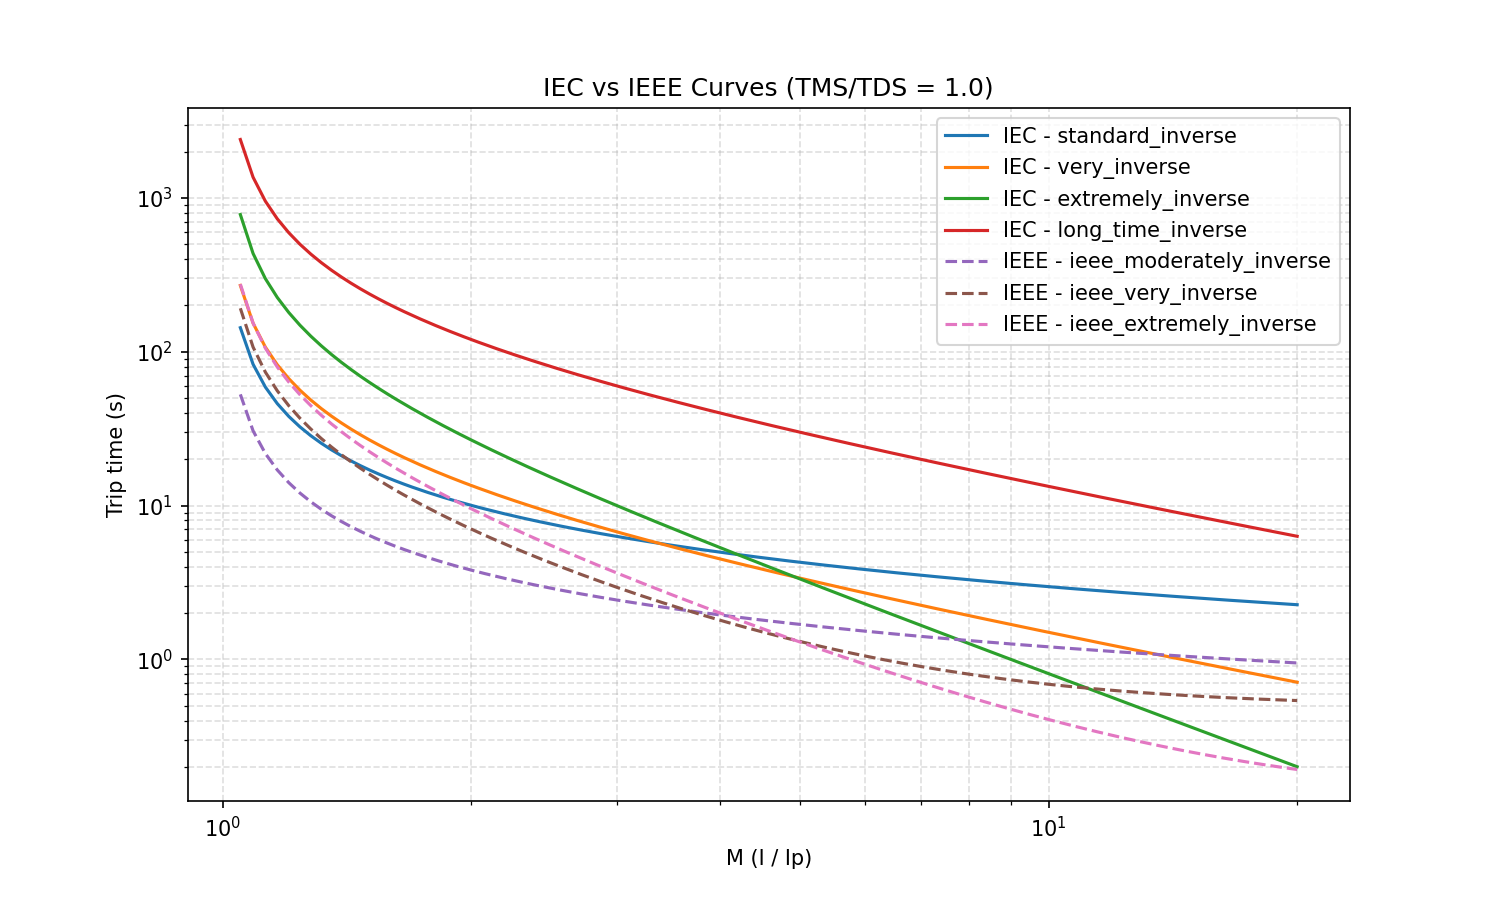
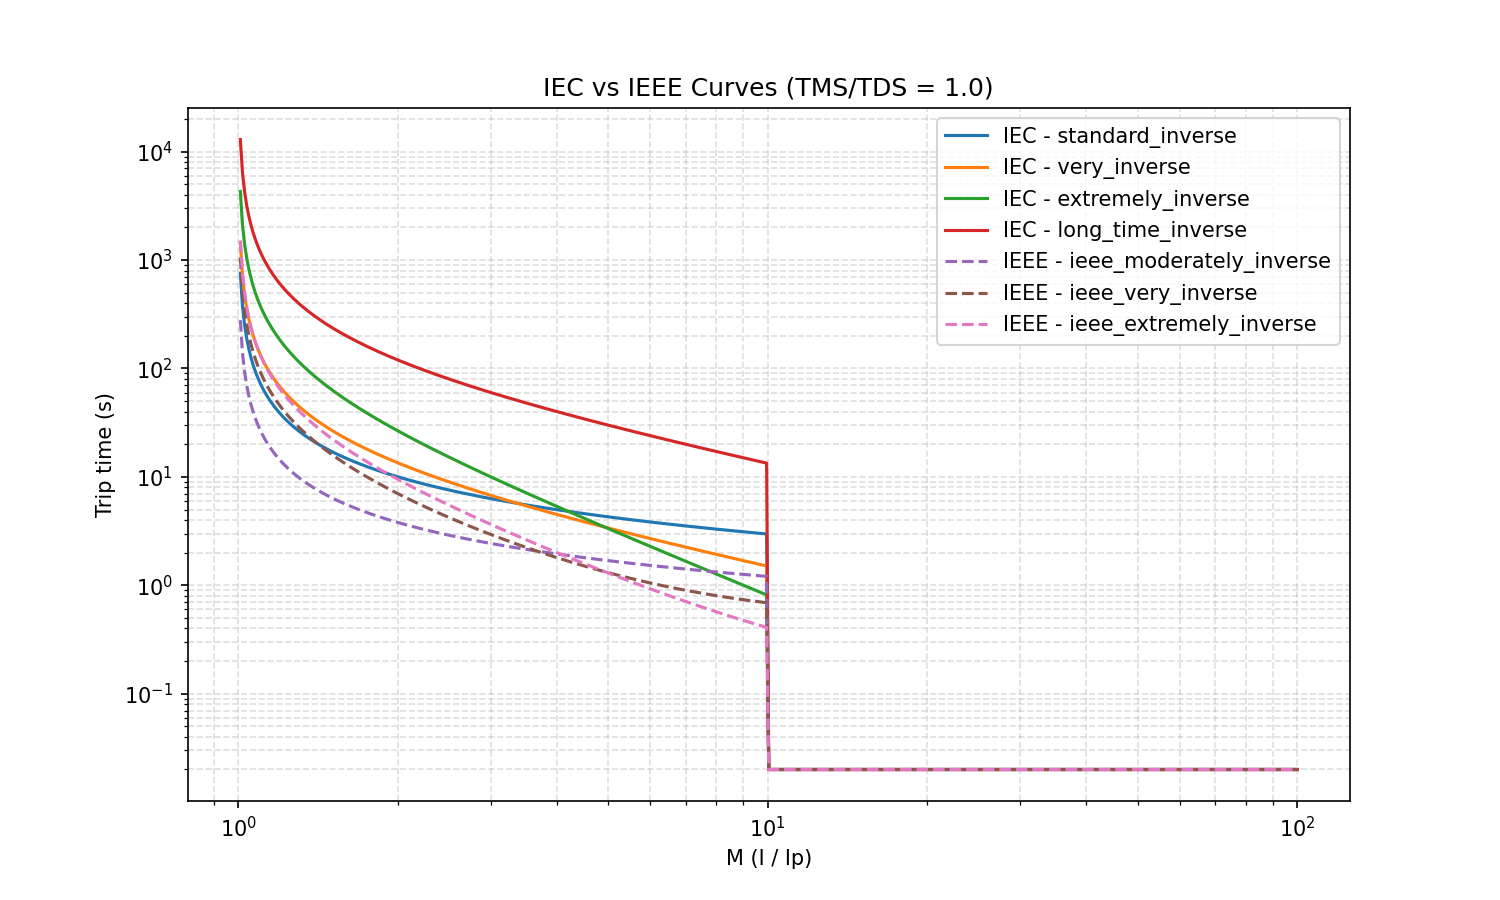
Update relay curves to accept inst_multiple as runtime parameter

diff --git a/c_firmware/test_main.c b/c_firmware/test_main.c
@@ -79,20 +79,51 @@ static void test_iec(void)
      * IEC EI:   80.0 / (2^2.0   - 1) = 80.0 / 3.0        ≈ 26.67 s
      * IEC LTI: 120.0 / (2^1.0   - 1) = 120.0 / 1.0       = 120.0 s
      */
-    check("IEC SI  M=2 TMS=1  (~10.03s)", trip_time_iec(2.0f, 1.0f, IEC_SI),   10.03f, 0.05f);
-    check("IEC VI  M=2 TMS=1  (13.50s)", trip_time_iec(2.0f, 1.0f, IEC_VI),   13.50f, 0.05f);
-    check("IEC EI  M=2 TMS=1  (26.67s)", trip_time_iec(2.0f, 1.0f, IEC_EI),   26.67f, 0.05f);
-    check("IEC LTI M=2 TMS=1  (120.0s)", trip_time_iec(2.0f, 1.0f, IEC_LTI), 120.00f, 0.10f);
+    check("IEC SI  M=2 TMS=1  (~10.03s)", trip_time_iec(2.0f, 1.0f, INST_MULTIPLE_DEFAULT, IEC_SI),   10.03f, 0.05f);
+    check("IEC VI  M=2 TMS=1  (13.50s)", trip_time_iec(2.0f, 1.0f, INST_MULTIPLE_DEFAULT, IEC_VI),   13.50f, 0.05f);
+    check("IEC EI  M=2 TMS=1  (26.67s)", trip_time_iec(2.0f, 1.0f, INST_MULTIPLE_DEFAULT, IEC_EI),   26.67f, 0.05f);
+    check("IEC LTI M=2 TMS=1  (120.0s)", trip_time_iec(2.0f, 1.0f, INST_MULTIPLE_DEFAULT, IEC_LTI), 120.00f, 0.10f);
 
     /* TMS scaling: halving TMS must halve the trip time */
-    float t_full = trip_time_iec(5.0f, 1.0f, IEC_SI);
-    float t_half = trip_time_iec(5.0f, 0.5f, IEC_SI);
+    float t_full = trip_time_iec(5.0f, 1.0f, INST_MULTIPLE_DEFAULT, IEC_SI);
+    float t_half = trip_time_iec(5.0f, 0.5f, INST_MULTIPLE_DEFAULT, IEC_SI);
     check("IEC SI  TMS halving scales time", t_half, t_full * 0.5f, 0.001f);
 
     /* M <= 1.0 must return error */
-    float err = trip_time_iec(0.8f, 1.0f, IEC_SI);
+    float err = trip_time_iec(0.8f, 1.0f, INST_MULTIPLE_DEFAULT, IEC_SI);
     check("IEC SI  M<1 returns RELAY_ERR_NO_TRIP", err, (float)RELAY_ERR_NO_TRIP, 0.001f);
 }
+/* ── Instantaneous zone tests ──────────────────────────────────────── */
+static void test_instantaneous(void)
+{
+    printf("\n=== Instantaneous Zone Tests ===\n");
+
+    /* M exactly at threshold → must return INST_TRIP_TIME_S */
+    float t = trip_time_iec(10.0f, 1.0f, INST_MULTIPLE_DEFAULT, IEC_SI);
+    check("Inst zone M=10.0 (expect 0.020s)", t, INST_TRIP_TIME_S, 0.001f);
+
+    /* M well above threshold */
+    t = trip_time_iec(25.0f, 1.0f, INST_MULTIPLE_DEFAULT, IEC_SI);
+    check("Inst zone M=25.0 (expect 0.020s)", t, INST_TRIP_TIME_S, 0.001f);
+
+    /* IEEE curve also hits inst zone */
+    t = trip_time_ieee(15.0f, 1.0f, INST_MULTIPLE_DEFAULT, IEEE_MOD_INV);
+    check("Inst zone IEEE M=15 (expect 0.020s)", t, INST_TRIP_TIME_S, 0.001f);
+
+    /* M just below threshold → must NOT be inst zone (should give IDMT time) */
+    t = trip_time_iec(9.99f, 1.0f, INST_MULTIPLE_DEFAULT, IEC_SI);
+    int not_inst = (fabsf(t - INST_TRIP_TIME_S) > 0.01f) && (t > 0.0f);
+    tests_run++;
+    if (not_inst) {
+        printf("  [PASS] %-40s  got=%.4f\n",
+               "M=9.99 stays in IDMT zone", t);
+        tests_passed++;
+    } else {
+        printf("  [FAIL] %-40s  got=%.4f (should be IDMT time, not 0.020)\n",
+               "M=9.99 stays in IDMT zone", t);
+    }
+}
+
 
 /* ── IEEE curve tests ──────────────────────────────────────────────── */
 static void test_ieee(void)
@@ -115,17 +146,17 @@ static void test_ieee(void)
      *   denom = 3.0
      *   t = 1.0 * (28.2/3 + 0.1217) = 9.400 + 0.1217 = 9.522 s
      */
-    check("IEEE MOD_INV  M=2 TDS=1  (~3.80s)", trip_time_ieee(2.0f, 1.0f, IEEE_MOD_INV),  3.804f, 0.05f);
-    check("IEEE VERY_INV M=2 TDS=1  (~7.03s)", trip_time_ieee(2.0f, 1.0f, IEEE_VERY_INV), 7.028f, 0.05f);
-    check("IEEE EXT_INV  M=2 TDS=1  (~9.52s)", trip_time_ieee(2.0f, 1.0f, IEEE_EXT_INV),  9.522f, 0.05f);
+    check("IEEE MOD_INV  M=2 TDS=1  (~3.80s)", trip_time_ieee(2.0f, 1.0f, INST_MULTIPLE_DEFAULT, IEEE_MOD_INV),  3.804f, 0.05f);
+    check("IEEE VERY_INV M=2 TDS=1  (~7.03s)", trip_time_ieee(2.0f, 1.0f, INST_MULTIPLE_DEFAULT, IEEE_VERY_INV), 7.028f, 0.05f);
+    check("IEEE EXT_INV  M=2 TDS=1  (~9.52s)", trip_time_ieee(2.0f, 1.0f, INST_MULTIPLE_DEFAULT, IEEE_EXT_INV),  9.522f, 0.05f);
 
     /* TDS scaling */
-    float t1 = trip_time_ieee(5.0f, 1.0f, IEEE_VERY_INV);
-    float t2 = trip_time_ieee(5.0f, 2.0f, IEEE_VERY_INV);
+    float t1 = trip_time_ieee(5.0f, 1.0f, INST_MULTIPLE_DEFAULT, IEEE_VERY_INV);
+    float t2 = trip_time_ieee(5.0f, 2.0f, INST_MULTIPLE_DEFAULT, IEEE_VERY_INV);
     check("IEEE VERY_INV TDS doubling scales time", t2, t1 * 2.0f, 0.001f);
 
-    /* M <= 1.0 guard */
-    float err = trip_time_ieee(1.0f, 1.0f, IEEE_MOD_INV);
+    /* M <= 1.0 must return error */
+    float err = trip_time_ieee(1.0f, 1.0f, INST_MULTIPLE_DEFAULT, IEEE_MOD_INV);
     check("IEEE MOD_INV  M=1 returns RELAY_ERR_NO_TRIP", err, (float)RELAY_ERR_NO_TRIP, 0.001f);
 }
 
@@ -148,6 +179,7 @@ int main(void)
     test_rms();
     test_iec();
     test_ieee();
+    test_instantaneous();
     print_summary();
     return (tests_passed == tests_run) ? 0 : 1;
 }

diff --git a/c_firmware/relay_curves.c b/c_firmware/relay_curves.c
@@ -12,10 +12,13 @@ static const IEC_Params IEC_TABLE[4] = {
     /* IEC_LTI */  { 120.0f, 1.00f }
 };
 
-float trip_time_iec(float M, float TMS, IEC_Curve curve)
+float trip_time_iec(float M, float TMS, float inst_multiple, IEC_Curve curve)
 {
     if (M <= 1.0f) {
         return (float)RELAY_ERR_NO_TRIP;   /* relay does not trip below pickup */
+    }
+    else if (M >= inst_multiple) {
+        return RELAY_INST_ZONE;              /* instantaneous trip zone */
     }
 
     const IEC_Params *p = &IEC_TABLE[curve];
@@ -33,10 +36,13 @@ static const IEEE_Params IEEE_TABLE[3] = {
     /* IEEE_EXT_INV  */  { 28.2f,   0.1217f, 2.00f }
 };
 
-float trip_time_ieee(float M, float TDS, IEEE_Curve curve)
+float trip_time_ieee(float M, float TDS, float inst_multiple, IEEE_Curve curve)
 {
     if (M <= 1.0f) {
         return (float)RELAY_ERR_NO_TRIP;
+    }
+    else if (M >= inst_multiple) {
+        return RELAY_INST_ZONE;              /* instantaneous trip zone */
     }
 
     const IEEE_Params *p = &IEEE_TABLE[curve];
@@ -44,17 +50,6 @@ float trip_time_ieee(float M, float TDS, IEEE_Curve curve)
     float denom = powf(M, p->p) - 1.0f;
     return TDS * ((p->A / denom) + p->B);
 }
-
-// float trip_time(float I_rms, float Ip, float TD, CurveType curve)
-// {
-//     float M = I_rms / Ip;
-
-//     if (curve <= IEC_LONG)
-//         return trip_time_iec(M, TD, curve);
-
-//     else
-//         return trip_time_ieee(M, TD, curve);
-// }
 
 /* ══════════════════════════════════════════════════════════════════════
  *  calc_rms()

diff --git a/c_firmware/relay_curves.h b/c_firmware/relay_curves.h
@@ -3,6 +3,10 @@
 #define RELAY_CURVES_H
 #include <stdint.h>
 
+/* ── Instantaneous zone ─────────────────────────────────────────────────── */
+#define INST_TRIP_TIME_S       0.020f /* 1 cycle @ 50Hz — "definite zero"    */
+#define INST_MULTIPLE_DEFAULT  10.0f  /* Default M threshold for instant trip */
+
 typedef enum { IEC_SI, IEC_VI, IEC_EI, IEC_LTI } IEC_Curve;
 typedef enum { IEEE_MOD_INV, IEEE_VERY_INV, IEEE_EXT_INV } IEEE_Curve;
 
@@ -10,9 +14,10 @@ typedef enum { IEEE_MOD_INV, IEEE_VERY_INV, IEEE_EXT_INV } IEEE_Curve;
 #define RELAY_OK            0
 #define RELAY_ERR_NO_TRIP  -1   /* M <= 1.0 : relay will never trip */
 #define RELAY_ERR_NULL_PTR -2
+#define RELAY_INST_ZONE       INST_TRIP_TIME_S
 
 float calc_rms(const uint16_t *samples, int n, uint16_t dc_offset);
-float trip_time_iec(float M, float TMS, IEC_Curve curve);
-float trip_time_ieee(float M, float TDS, IEEE_Curve curve);
+float trip_time_iec(float M, float TMS, float inst_multiple, IEC_Curve curve);
+float trip_time_ieee(float M, float TDS, float inst_multiple, IEEE_Curve curve);
 
 #endif

diff --git a/python/relay_curves.py b/python/relay_curves.py
@@ -1,5 +1,9 @@
 import math
 
+# ─── Constants ──────────────────────────────────────────────────────────────
+DEFAULT_INST_MULT    = 10.0   # Instantaneous zone: M >= this → instant trip
+INST_TRIP_TIME_S     = 0.020  # "Instant" = 1 cycle (20ms), not true zero
+
 # IEC 60255 — t = TMS * k / (M^alpha - 1)
 IEC_CURVES = {
     "standard_inverse":   {"k": 0.14,  "alpha": 0.02},
@@ -20,6 +24,8 @@ def trip_time_iec(I_rms, Ip, TMS, curve="standard_inverse"):
     M = I_rms / Ip
     if M <= 1.0:
         return float('inf')
+    elif M >= DEFAULT_INST_MULT:
+        return INST_TRIP_TIME_S
     return TMS * c["k"] / (M ** c["alpha"] - 1.0)
 
 def trip_time_ieee(I_rms, Ip, TDS, curve="ieee_moderately_inverse"):
@@ -27,6 +33,8 @@ def trip_time_ieee(I_rms, Ip, TDS, curve="ieee_moderately_inverse"):
     M = I_rms / Ip
     if M <= 1.0:
         return float('inf')
+    elif M >= DEFAULT_INST_MULT:
+        return INST_TRIP_TIME_S
     return TDS * (c["A"] / (M ** c["p"] - 1.0) + c["B"])  # note the + B
 
 def trip_time(I_rms, Ip, TD, curve):

diff --git a/python/test_curves.py b/python/test_curves.py
@@ -9,8 +9,11 @@ print(f"Standard Inverse  M=2  TMS=1 → {t:.3f}s   (expected ~10.03s)")
 t = trip_time(2.0, 1.0, 1.0, "very_inverse")
 print(f"Very Inverse      M=2  TMS=1 → {t:.3f}s   (expected ~13.5s)")
 
-t = trip_time(10.0, 1.0, 1.0, "extremely_inverse")
-print(f"Extremely Inverse M=10 TMS=1 → {t:.3f}s (expected ~0.808s)")
+t = trip_time(9.0, 1.0, 1.0, "extremely_inverse")
+print(f"Extremely Inverse M=9 TMS=1 → {t:.3f}s (expected ~1.000s)")
+
+t = trip_time(11.0, 1.0, 1.0, "extremely_inverse")
+print(f"Extremely Inverse M=11 (instantaneous trip) TMS=1 → {t:.3f}s (expected ~0.020s)")
 
 print("\n=== IEEE curve checks ===")
 

diff --git a/python/relay_simulation.py b/python/relay_simulation.py
@@ -8,7 +8,7 @@ TMS = 1.0
 curve = "standard_inverse"
 
 # Fault level (change this to test)
-M_target = 10
+M_target = 20
 I_fault = M_target * Ip
 
 # ===== SIGNAL =====
@@ -41,6 +41,7 @@ for i in range(window, len(signal)):
             trip = True
             break
     else:
+        
         time_acc = 0
         
 print(f"M_actual = {M:.2f}")

diff --git a/python/plot_curves.py b/python/plot_curves.py
@@ -2,7 +2,7 @@ from relay_curves import trip_time, IEC_CURVES, IEEE_CURVES  # ← same library
 import matplotlib.pyplot as plt
 import numpy as np
 
-M_values = np.linspace(1.05, 20, 500)
+M_values = np.logspace(0, 2, 500)   # 1 → 100
 
 fig1, ax1 = plt.subplots(figsize=(10, 6))
 
